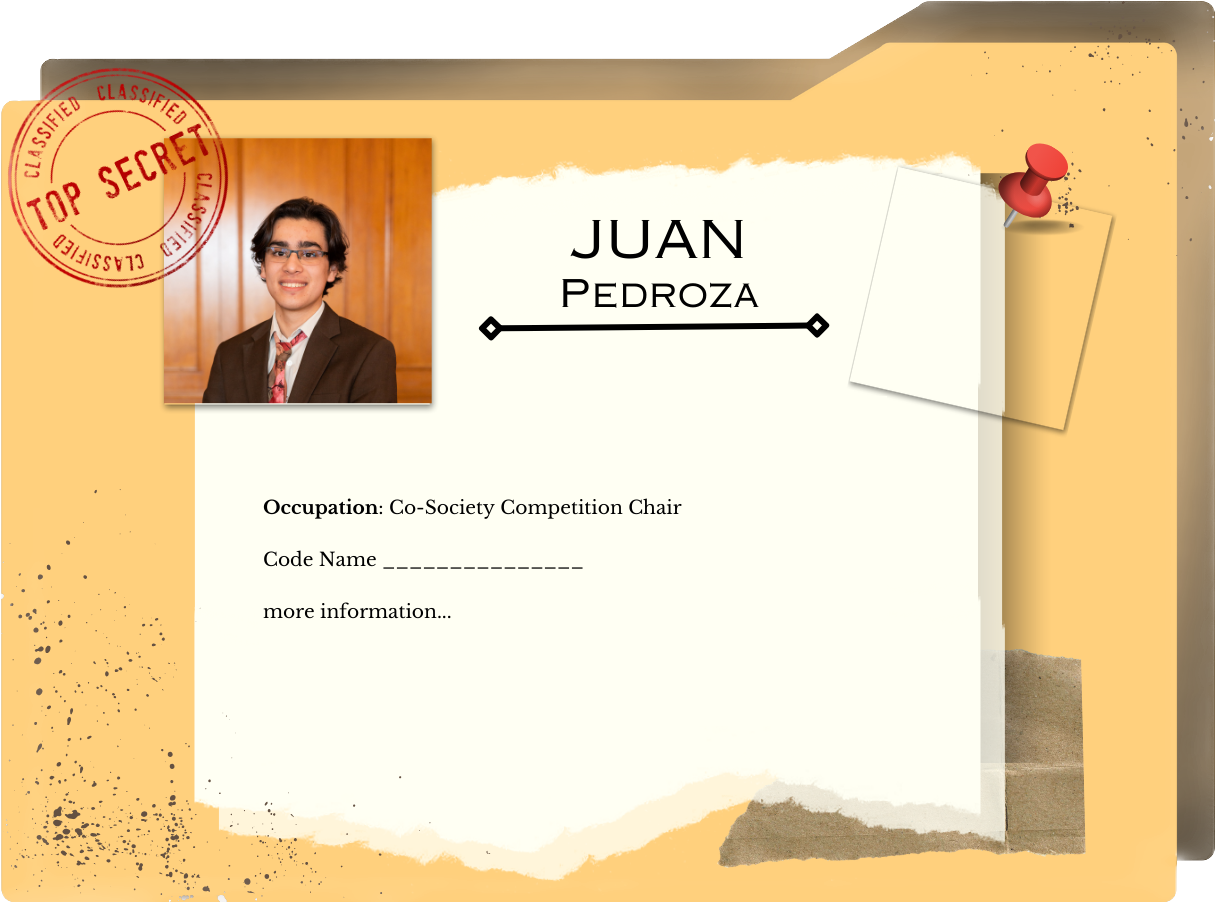
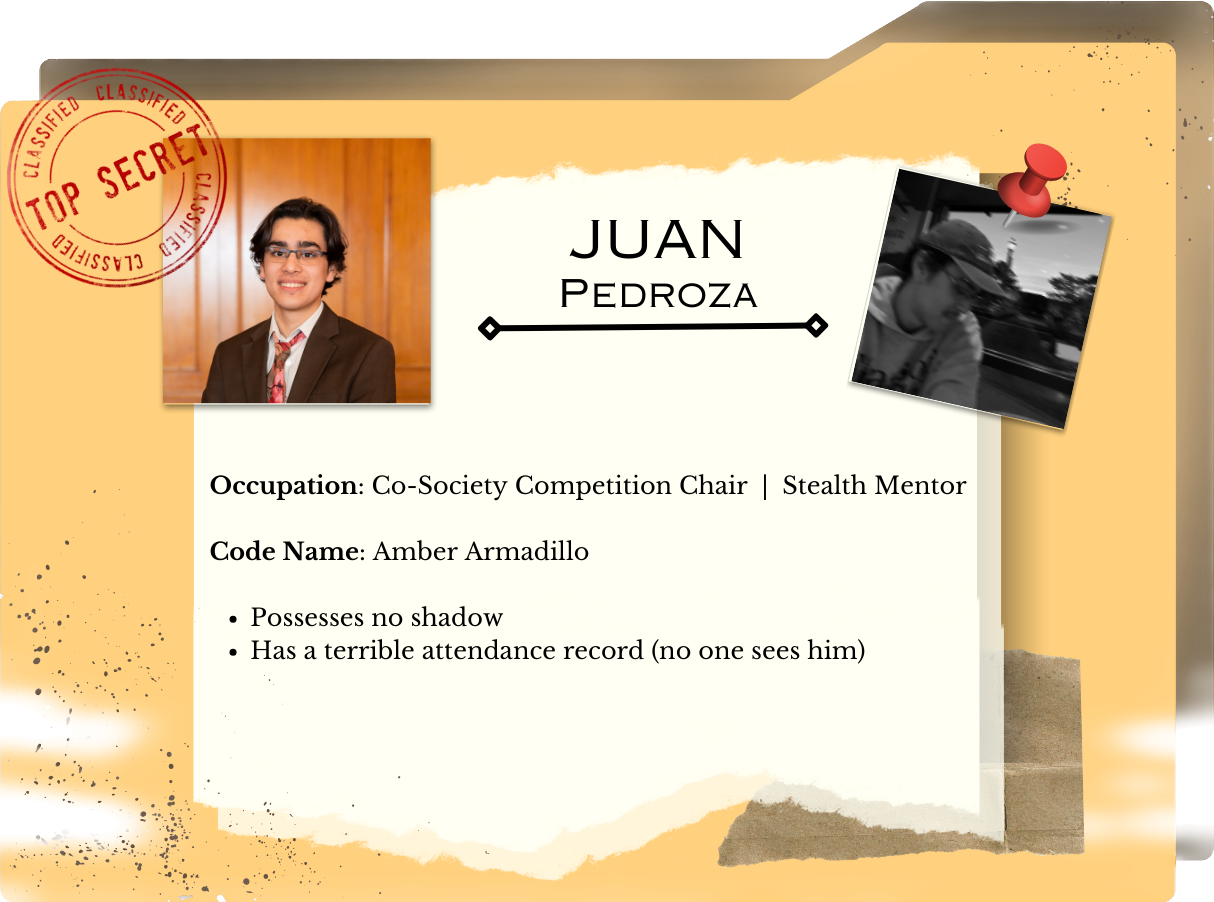
updated profiles + trying to code in mobile prompt...

diff --git a/styles.css b/styles.css
@@ -44,10 +44,26 @@ html {
 } */ 
 
 /* For Mobile */
-@media screen and (max-width: 640px) {
-    .main {
-        width: 100%;
-    }
+#mobile-orientation-prompt {
+  position: absolute;
+  top: 50%;
+  left: 50%;
+  width: 100%;
+  height: 100%;
+  background: rgb(0, 0, 255);
+  display: none;
+  flex-direction: column;
+  align-items: center;
+  justify-content: center;
+  text-align: center;
+  font-size: 20px;
+  color: #333;
+  z-index: 1;
+}
+@media screen and (max-width: 767px) and (orientation: portrait) {
+  #mobile-orientation-prompt {
+    display: block;
+  }
 }
 
 .sponsorlogo {

diff --git a/panelManager.js b/panelManager.js
@@ -35,3 +35,11 @@ function activeButton(clickedButton) {
 
   clickedButton.classList.add('active');
 }
+
+window.addEventListener('orientationchange', function(event) {
+  if (event.target.screen.orientation.type === 'portrait-primary') {
+    document.getElementById('mobile-orientation-prompt').style.display = 'block';
+  } else {
+    document.getElementById('mobile-orientation-prompt').style.display = 'none';
+  }
+});

diff --git a/index.html b/index.html
@@ -29,6 +29,9 @@
     </style>
     <title>2024 Engineers Week UIUC</title>
   </head>
+<!-- <div class="mobile-orientation-prompt"> 
+  <h2>Mobile Test</h2>
+</div> -->
 <construction_body>
   <div id="construction_overlay">
     <div class="image-container">
